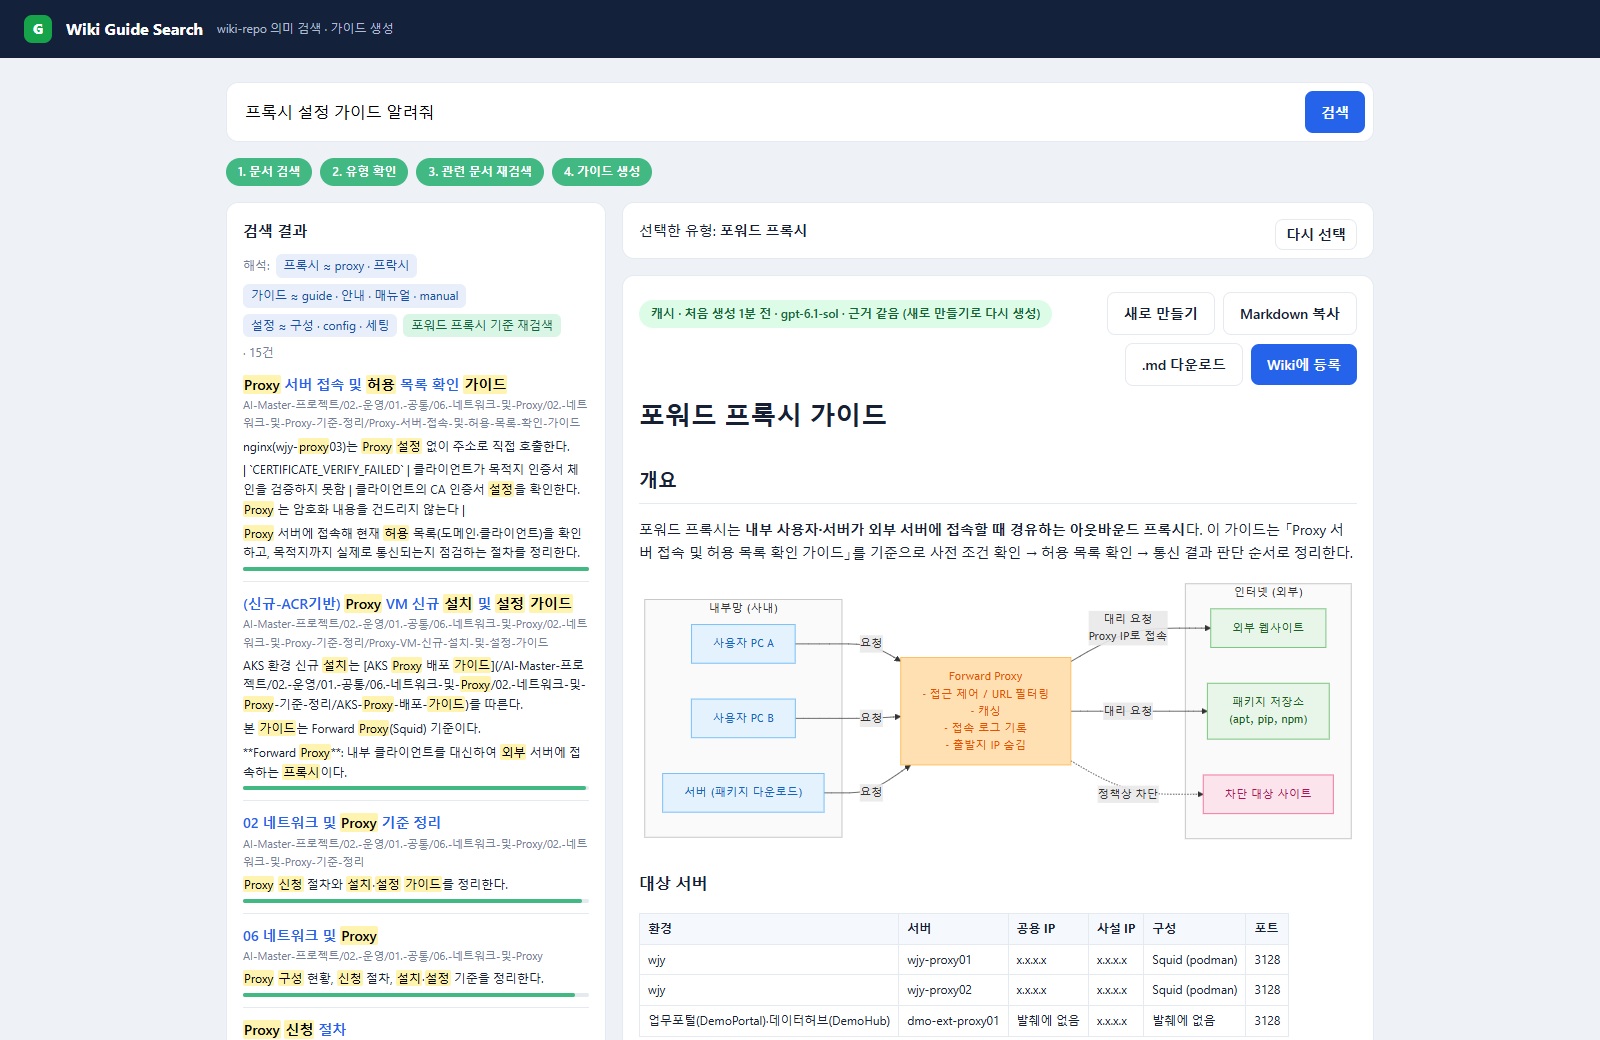
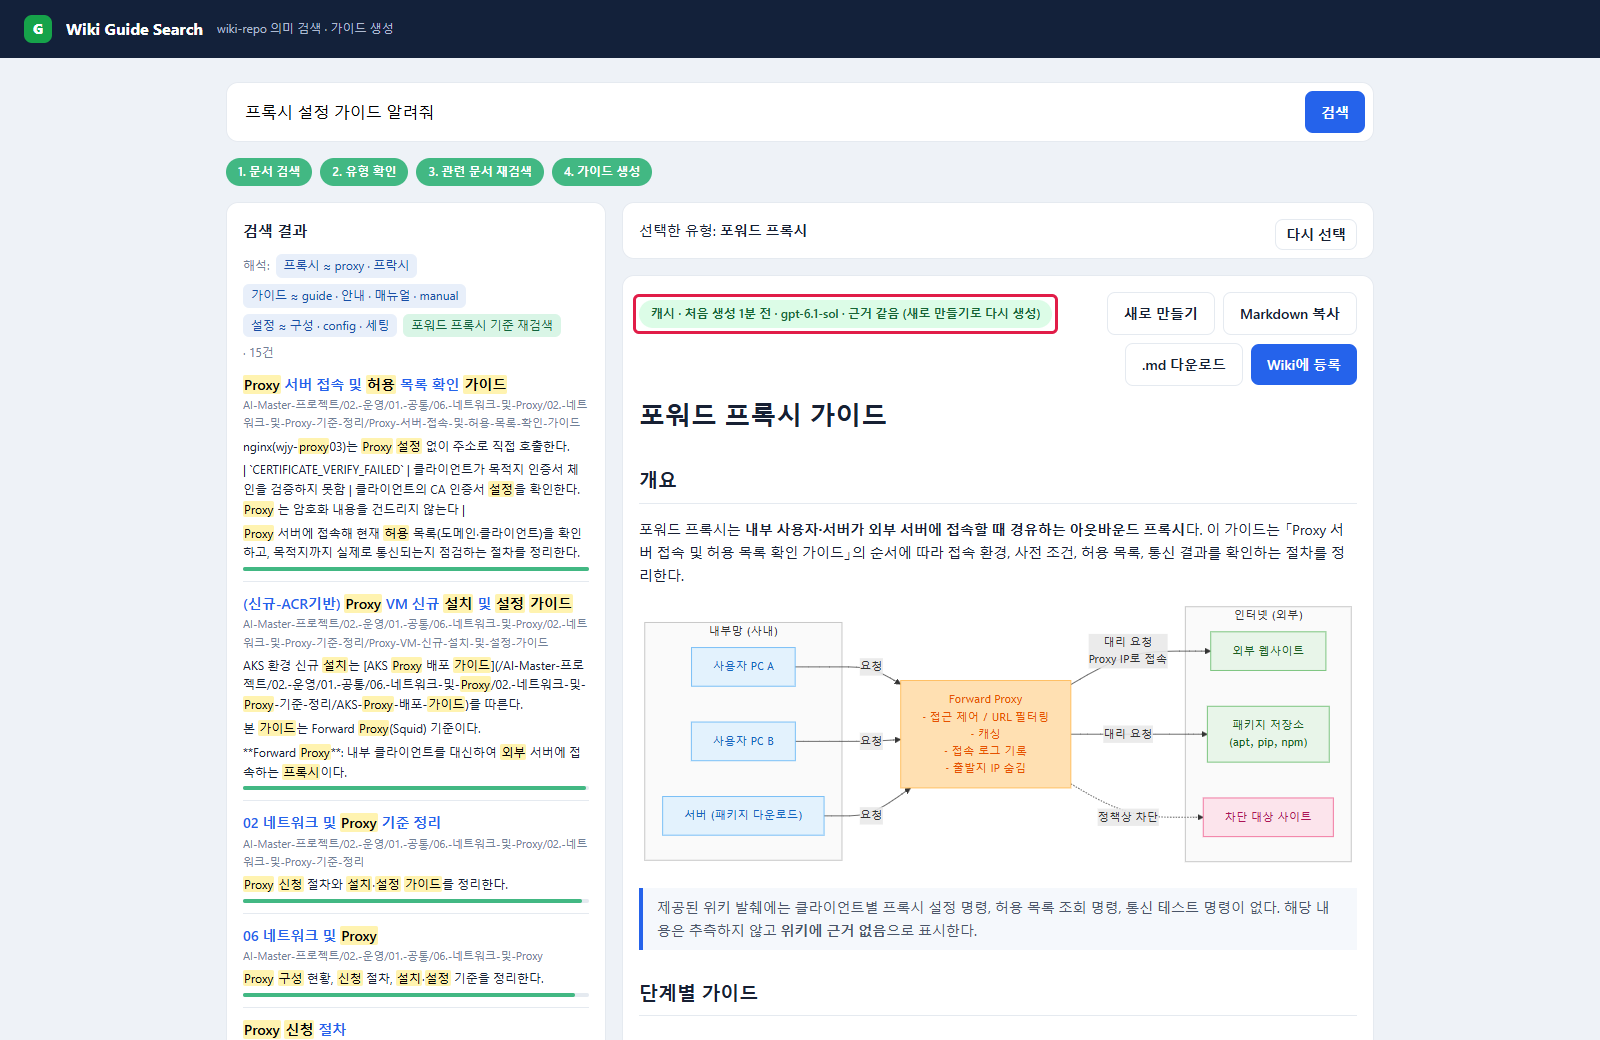
README 시나리오 1 화면: 설명하는 부분에 빨간 테두리 표시(배지·웹 검색 칩·보완 문장·웹 결과·웹 참고 링크)

Changed region(s): [[0.4062, 0.5231, 0.8438, 1.0]]

diff --git a/test/capture_readme.py b/test/capture_readme.py
@@ -99,6 +99,40 @@ def guide(page, label, *, fresh):
     print(f"guide {label}: " + page.locator("#gen").inner_text(), flush=True)
 
 
+# README 설명이 가리키는 곳에 빨간 테두리를 그린다. 각 식은 요소 하나 또는 배열을 돌려주고, 식마다 상자 하나(합친 영역).
+MARK_JS = r"""(exprs) => {
+  document.querySelectorAll('.readme-mark').forEach(e => e.remove());
+  for (const expr of exprs) {
+    let els = new Function('return (' + expr + ')')();
+    els = (Array.isArray(els) ? els : [els]).filter(Boolean);
+    if (!els.length) continue;
+    const r = els.map(e => e.getBoundingClientRect());
+    const x1 = Math.min(...r.map(a => a.left)), y1 = Math.min(...r.map(a => a.top));
+    const x2 = Math.max(...r.map(a => a.right)), y2 = Math.max(...r.map(a => a.bottom));
+    const d = document.createElement('div');
+    d.className = 'readme-mark';
+    Object.assign(d.style, {position: 'absolute', left: (x1 + scrollX - 6) + 'px', top: (y1 + scrollY - 6) + 'px',
+      width: (x2 - x1 + 12) + 'px', height: (y2 - y1 + 12) + 'px', border: '3px solid #e11d48',
+      borderRadius: '6px', pointerEvents: 'none', zIndex: 9999});
+    document.body.appendChild(d);
+  }
+}"""
+BADGE = "document.querySelector('#gen')"
+WEB_CHIP = "[...document.querySelectorAll('#analysis .chip')].filter(e => e.textContent.includes('웹 검색'))"
+# 본문 문단만 본다(다이어그램 글자 '웹 서버' 등은 제외). 웹 자료로 보완했다는 문장.
+WEB_NOTE = "[...document.querySelectorAll('#guide > p')].find(p => p.textContent.includes('웹') && p.textContent.includes('보완'))"
+# 왼쪽 '웹 검색 결과' 제목과 그 뒤 결과들, 가이드 끝 '웹 참고 링크' 제목과 목록
+WEB_RESULTS = ("(() => { const h = [...document.querySelectorAll('#results h2')].find(e => e.textContent.includes('웹 검색 결과'));"
+               " if (!h) return []; const out = [h]; let n = h.nextElementSibling;"
+               " while (n && n.classList.contains('res')) { out.push(n); n = n.nextElementSibling; } return out; })()")
+WEB_LINKS = ("(() => { const h = [...document.querySelectorAll('#guide h2')].find(e => e.textContent.includes('웹 참고 링크'));"
+             " return h ? [h, h.nextElementSibling] : []; })()")
+
+
+def mark(page, *exprs):
+    page.evaluate(MARK_JS, list(exprs))
+
+
 def reselect(page):
     """'다시 선택'으로 같은 질의를 다시 검색해 유형 버튼을 띄운다."""
     page.locator("#re").click()
@@ -113,23 +147,29 @@ def wiki(page):
     shot(page, "wiki-search-type.png")
     # 캐시 저장 전: 캐시가 있으면 '새로 만들기'로 LLM 이 새로 쓰게 한다(이때 캐시에 저장됨). Wiki 등록 버튼은 누르지 않는다.
     guide(page, "포워드", fresh=True)
+    mark(page, BADGE)
     shot(page, "wiki-search-guide.png")
+    mark(page)
     page.locator("#revise").scroll_into_view_if_needed()
     shot(page, "wiki-search-revise.png")
     # 캐시 저장 후: 같은 질의·유형을 다시 고르면 근거 지문이 같아 LLM 없이 저장된 가이드가 나온다.
     reselect(page)
     guide(page, "포워드", fresh=False)
     page.evaluate("window.scrollTo(0, 0)")
+    mark(page, BADGE)
     shot(page, "wiki-search-cache.png")
     # 웹 검색: 리버스 프록시는 위키 근거가 약해(유형 유사도 0.41 < 0.45) 웹 검색 결과를 근거에 보탠다.
     reselect(page)
     guide(page, "리버스", fresh=True)
     page.evaluate("window.scrollTo(0, 0)")
+    mark(page, WEB_CHIP, WEB_NOTE)
     shot(page, "wiki-search-web.png")
     links = page.locator("#guide h2").filter(has_text="웹 참고 링크")
     if links.count():
         links.first.scroll_into_view_if_needed()
+        mark(page, WEB_RESULTS, WEB_LINKS)
         shot(page, "wiki-search-web-links.png")
+    mark(page)
 
 
 def viewer(page):

diff --git a/README.md b/README.md
@@ -102,7 +102,7 @@ flowchart TD
 | 6. Wiki 문서 등록 | `02. 운영 > 00. AI 문서 생성` 아래 `NN. 제목`으로 등록, 같은 제목이면 갱신(번호 유지, 이력은 git), Wiki 문서 규칙(채번·`.order`·인코딩·프록시 표기) 준수, 머리에 "AI 생성 · 모델 · 생성 일시 · 질의 · 근거 수" | `wiki_tools/wiki_register.py`. 로컬 뷰어 링크를 Wiki 안 링크로 바꾸고 push. push는 원격 최신 위 임시 작업 트리에서 이 문서 커밋만 만들어 올리므로, wiki-repo에 쌓인 로컬 전용 커밋(시나리오 2 테스트)은 올라가지 않음. 올린 뒤 로컬은 원격 위로 rebase |
 | 7. 결과 제공 | Azure DevOps Wiki 링크, 추가 질문·수정 요청(확장) | 등록 후 "Wiki에서 열기"·로컬 뷰어 링크. 가이드 아래 "수정 요청" 입력칸: 지금 가이드와 요청을 함께 보내 고친 판을 받음(요청과 관계없는 부분은 유지, 사용자가 적은 문구는 그대로 반영). 고친 판을 그대로 등록 가능 |
 
-**실행 화면 · 2026-10-30 재촬영**
+**실행 화면 · 2026-10-30 재촬영** (설명하는 부분은 빨간 테두리로 표시)
 
 실제 Wiki를 대상으로 `프록시 설정 가이드 알려줘` 질의 → 포워드/리버스 유형 확인:
 
@@ -122,7 +122,7 @@ flowchart TD
 
 ![Wiki 검색 - 수정 요청](docs/images/wiki-search-revise.png)
 
-**웹 검색**: 리버스 프록시를 고르면 위키에 그 유형 내용이 적어(유형 유사도 0.41 < 0.45) 웹 검색 결과를 근거에 보탭니다. 해석 칩에 `웹 검색 N건`이 붙고, 가이드는 위키를 우선 근거로 하면서 위키에 없는 설정은 웹 자료로 보완했다고 밝힙니다:
+**웹 검색**: 리버스 프록시를 고르면 위키에 그 유형 내용이 적어(유형 유사도 0.41 < 0.45) 웹 검색 결과를 근거에 보탭니다. 해석 칩에 `웹 검색 N건`이 붙고(왼쪽 위 테두리), 가이드는 위키를 우선 근거로 하면서 위키에 없는 설정은 웹 자료로 보완했다고 밝힙니다(오른쪽 아래 테두리):
 
 ![Wiki 검색 - 웹 검색으로 근거 보완](docs/images/wiki-search-web.png)
 
